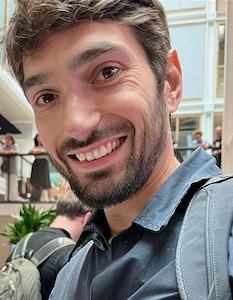
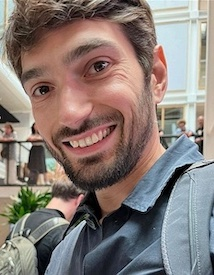
new photo2

diff --git a/index.html b/index.html
@@ -21,7 +21,7 @@
 		<div class="container">
     		<div class="blurb">
         		<h2>Sandro Pezzelle</h2>
-                                <p><img src="/sandro2022rid2.jpg " width="206" height="300" style="float:right" hspace="20" /></p>
+                                <p><img src="/sandro2022rid2.jpg " width="214" height="275" style="float:right" hspace="20" /></p>
                         <h2>About me</h2>
 				<p>
 <!--
